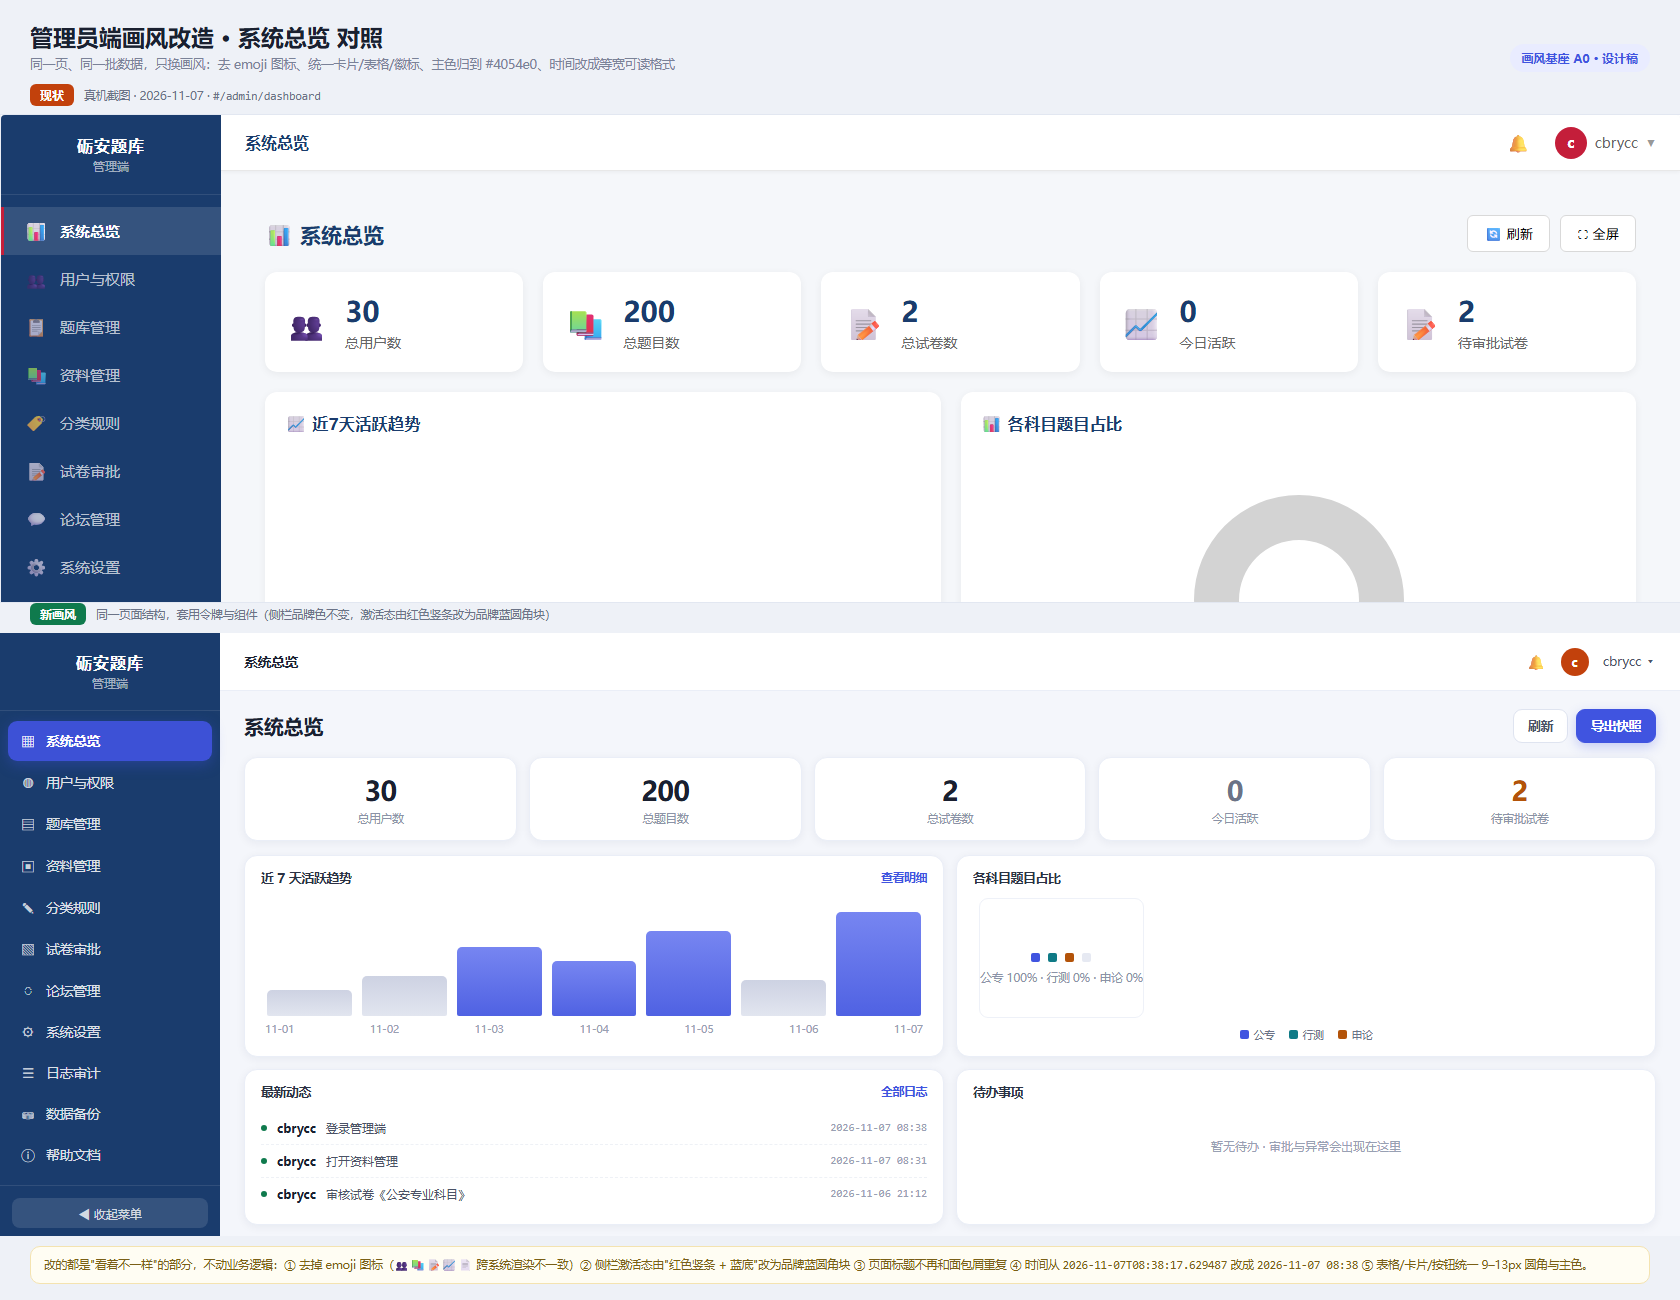
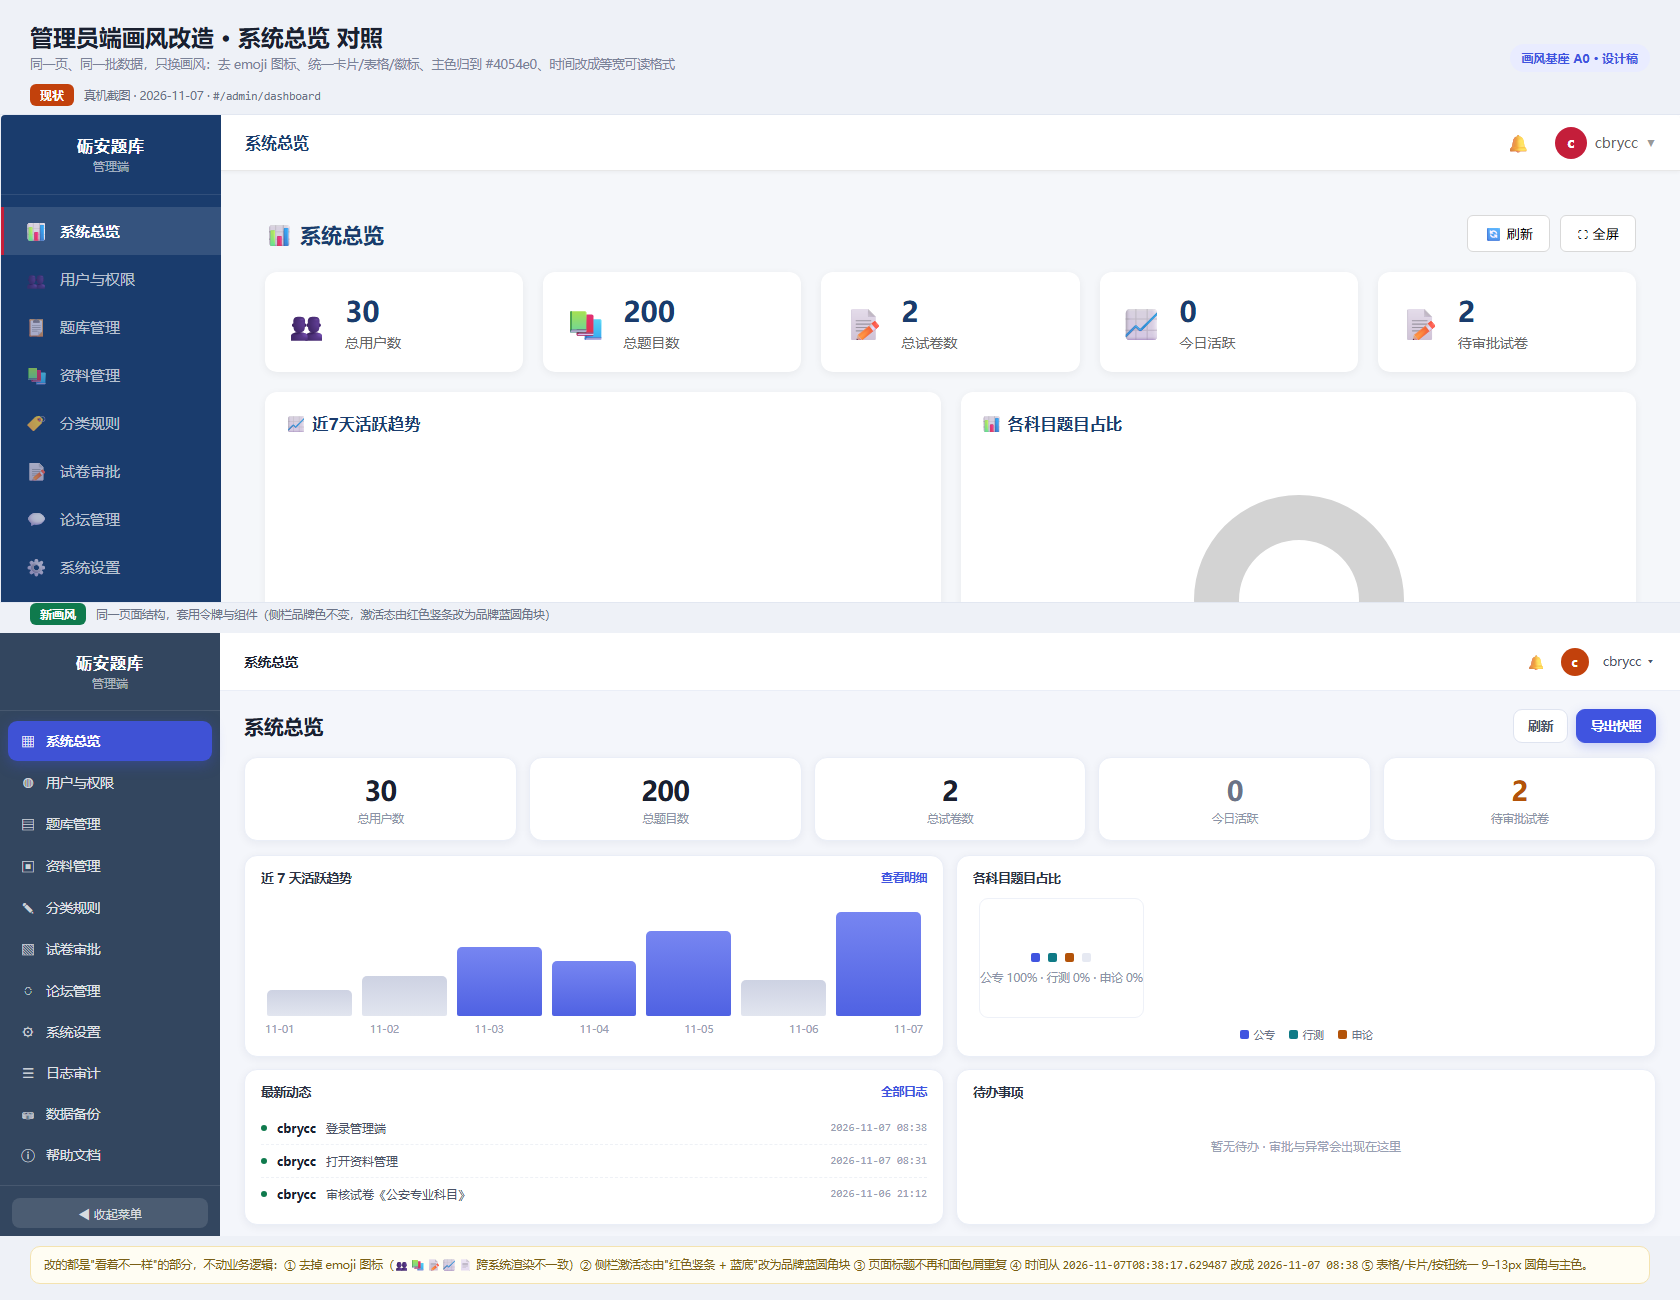
style(admin): 侧栏定色 #33465F（蓝灰）+ 激活态改品牌蓝圆角块（E2 定 D）
E2 复议收口：你反馈 #1A3C6D 过于深沉 → 选定 D 蓝灰 #33465F（白字对比度 9.62，WCAG AA）。
- admin-tokens.css: --adm-sidebar 改 #33465f，新增 --adm-sidebar-active / --adm-sidebar-active-shadow
- AdminLayout.vue: .admin-sidebar 底色改 var(--adm-sidebar)（原写死 #1A3C6D）；激活态由半透明白+红竖条 #C41E3A 改为品牌蓝圆角块（rgba(64,84,224,.92)+9px+阴影）；sidebar-nav 内边距 0→8px
- 真机实测：sidebarBg=rgb(51,70,95)、activeBg=rgba(64,84,224,0.92)、radius=9px、左边框 transparent
- 示意图 02/04 同步换色，新增 05 配色候选图、06 侧栏真机落地图
未做：侧栏滚动冻结（A5 的 fixed+margin-left，sticky 被 VTJ 三层 overflow 破坏）。typecheck 0 新增。不动 main。

Changed region(s): [[0.0, 0.5846, 0.1548, 0.9538], [0.0, 0.4615, 0.1548, 0.5538]]

diff --git a/src/layouts/AdminLayout.vue b/src/layouts/AdminLayout.vue
@@ -244,7 +244,8 @@ export default defineComponent({
 /* 侧边栏 */
 .admin-sidebar {
   width: 220px;
-  background: #1A3C6D;
+  /* 2026-11-07：底色改由令牌控制（原写死 #1A3C6D，偏沉；现 #33465F 蓝灰，白字 9.62:1） */
+  background: var(--adm-sidebar, #33465f);
   color: #fff;
   display: flex;
   flex-direction: column;
@@ -281,16 +282,17 @@ export default defineComponent({
 
 .sidebar-nav {
   flex: 1;
-  padding: 12px 0;
+  padding: 12px 8px;
 }
 
 .sidebar-item {
   display: flex;
   align-items: center;
-  padding: 12px 20px;
+  padding: 11px 14px;
   color: rgba(255,255,255,0.7);
   text-decoration: none;
   font-size: 15px;
+  border-radius: 9px;          /* A5：激活态由"红竖条"改为品牌蓝圆角块 */
   transition: all 0.2s;
   border-left: 3px solid transparent;
 }
@@ -302,9 +304,11 @@ export default defineComponent({
 
 .sidebar-item.active {
   color: #fff;
-  background: rgba(255,255,255,0.12);
-  border-left-color: #C41E3A;
+  /* 2026-11-07 A5：原来的 rgba(255,255,255,.12) + 红色左竖条（#C41E3A）与蓝灰侧栏冲突，改为品牌蓝圆角块 */
+  background: var(--adm-sidebar-active, rgba(64, 84, 224, 0.92));
+  border-left-color: transparent;
   font-weight: 600;
+  box-shadow: var(--adm-sidebar-active-shadow, 0 4px 14px rgba(64, 84, 224, 0.32));
 }
 
 .sidebar-icon {

diff --git a/docs/plans/assets/管理端画风/_src/02_画风对照_系统总览.html b/docs/plans/assets/管理端画风/_src/02_画风对照_系统总览.html
@@ -1,4 +1,4 @@
-<!doctype html><html><head><meta charset="utf-8"><style>
+<!doctype html><html><head><meta charset="utf-8"><style>
 *{box-sizing:border-box;margin:0;padding:0}
 body{font-family:"Microsoft YaHei","Segoe UI",system-ui,sans-serif;background:#eef1f7;color:#1a2030}
 .canvas{width:1680px;height:1300px;display:flex;flex-direction:column}
@@ -13,7 +13,7 @@ body{font-family:"Microsoft YaHei","Segoe UI",system-ui,sans-serif;background:#e
 .shot img{display:block;width:1680px}
 /* ===== 新画风渲染（同样是系统总览，只换画风） ===== */
 .after{height:640px;display:flex;overflow:hidden;background:#f4f6fb}
-.side{width:220px;flex:none;background:#1A3C6D;color:#fff;display:flex;flex-direction:column}
+.side{width:220px;flex:none;background:#33465F;color:#fff;display:flex;flex-direction:column}
 .side .hd2{padding:19px 16px;text-align:center;border-bottom:1px solid rgba(255,255,255,.1)}
 .side .hd2 .t{font-size:16px;font-weight:600;letter-spacing:1px}
 .side .hd2 .s{font-size:12px;color:rgba(255,255,255,.6);margin-top:2px}

diff --git a/docs/plans/assets/管理端画风/_src/04_用户与权限_新画风.html b/docs/plans/assets/管理端画风/_src/04_用户与权限_新画风.html
@@ -2,7 +2,7 @@
 *{box-sizing:border-box;margin:0;padding:0}
 body{font-family:"Microsoft YaHei","Segoe UI",system-ui,sans-serif;background:#f4f6fb;color:#1a2030}
 .app{width:1560px;height:1000px;display:flex;overflow:hidden}
-.side{width:220px;flex:none;background:#1A3C6D;color:#fff;display:flex;flex-direction:column}
+.side{width:220px;flex:none;background:#33465F;color:#fff;display:flex;flex-direction:column}
 .side .hd{padding:19px 16px;text-align:center;border-bottom:1px solid rgba(255,255,255,.1)}
 .side .hd .t{font-size:16px;font-weight:600;letter-spacing:1px}
 .side .hd .s{font-size:12px;color:rgba(255,255,255,.6);margin-top:2px}

diff --git a/src/styles/admin-tokens.css b/src/styles/admin-tokens.css
@@ -17,7 +17,11 @@
   --adm-line: #eaeef7;
   --adm-line-soft: #f0f2f8;
   --adm-head-bg: #f7f8fd;
-  --adm-sidebar: #1a3c6d;
+  /* 侧栏底色：2026-11-07 由 #1a3c6d（藏青，偏沉）改为 #33465f（蓝灰，不偏纯蓝）；
+     白字对比度 9.62:1（WCAG AA 通过）。原件写死在 AdminLayout.vue，A5 已改读本令牌。 */
+  --adm-sidebar: #33465f;
+  --adm-sidebar-active: rgba(64, 84, 224, 0.92);
+  --adm-sidebar-active-shadow: 0 4px 14px rgba(64, 84, 224, 0.32);
 
   /* —— 主色 —— */
   --adm-primary: #4054e0;

diff --git a/docs/README.md b/docs/README.md
@@ -72,6 +72,7 @@
 
 ## 变更记录
 
+- 2026-11-07：**侧栏配色定 D `#33465F` 并落到真机**（E2 复议收口）。`admin-tokens.css` 新增 `--adm-sidebar/--adm-sidebar-active/--adm-sidebar-active-shadow`；`AdminLayout.vue` 的 `.admin-sidebar` 从写死 `#1A3C6D` 改为 `var(--adm-sidebar)`；激活态由「半透明白 + 红色左竖条 `#C41E3A`」改为**品牌蓝圆角块**（`rgba(64,84,224,.92)` + 9px 圆角 + 阴影），`sidebar-nav` 左右内边距 0→8px。实测（无头 Chrome 读计算样式）：`sidebarBg=rgb(51,70,95)`、`activeBg=rgba(64,84,224,0.92)`、`activeRadius=9px`、`activeBorderLeft=transparent`。示意图 02/04 已同步换色，真机截图存 `assets/管理端画风/06_侧栏新配色_真机落地.png`。**注意**：只改了颜色与激活态，**侧栏「滚动时不动」仍未修**（A5 的 `fixed + margin-left`，因 sticky 被 VTJ 三层 overflow 容器破坏）
 - 2026-11-07：**侧栏配色复议（E2 重开）**。你反馈「侧栏颜色过于深沉」→ 出 `assets/管理端画风/05_侧栏配色_六选一.png`：现状 `#1A3C6D`（白字对比度 10.99）+ 5 个候选——A 中蓝 `#24487D`（9.14）/ **B 亮蓝 `#2B5AA0`（6.83，推荐；激活块翻白底更像"选中"）** / C 天蓝 `#3A6BB5`（5.32）/ D 蓝灰 `#33465F`（9.62，不偏纯蓝）/ F 浅色整条 `#FFFFFF`（深字 12.79，最轻）。全部按 WCAG 算过对比度（AA ≥4.5 均满足）。**待你选定**后改 `--adm-sidebar` + `AdminLayout.vue` 里写死的底色（A5 一并换 `var()`）
 - 2026-11-07：**画风底座确定后的「各界面预期效果图」出图**（`plans/assets/管理端画风/03_全站12页总览.png`、`04_用户与权限_新画风.png`；配套 `01_令牌与组件`、`02_画风对照`）。12 个管理页**结构全部取自源码实测**（表头列名/页签/按钮文案原样），只换画风：统一后每页只剩三件套 `AdminPageHeader` + `AdminToolbar`/`AdminStatCard` 行 + `AdminTable`；emoji 保留（E3=C）但尺寸对齐由组件统一。逐页对照表已写入 `plans/管理端画风统一_方案_v1.md` §8（页面/现网问题/新画风要点/对应图 四列）；**E2 验收口径明确为「只换皮不换功能」**——列、页签、批量操作、权限判定一个都不减（最重的 users 页 1214 行、8 列 + 4 页签 + 批量条已出全尺寸图）。备注：资料管理页的预期效果早已有图（`assets/资料管理v3/01,05,06`），本批不再重画
 - 2026-11-07：**A0 画风基座已落地**（`plans/A0_画风基座_交付记录_v1.md`；裁定 E1=A/E2=A/**E3=C 保留 emoji**/E4=B/E5=A 已回填进 `plans/管理端画风统一_方案_v1.md` §7.1）。新增 `src/styles/admin-tokens.css`（12 色 + 圆角/阴影/字号/间距 + `.adm-btn/.adm-input/.adm-empty/.adm-card` 工具类，**用纯 CSS 变量而非 scss**——仓库未直接依赖 sass）、`src/components/admin/` 6 个组件（Tag/StatCard/PageHeader/Toolbar/Table/FormItem，全部只读 `var(--adm-*)`）、组件库预览页 `/admin/dev/style`；顺手修：面包屑回落到 `route.meta.title`（原先无菜单项的页面只显示"管理端"）、统计卡空值显示 `—` 而非 0。**门禁数字变更**：新增 1 条页面路由 → L6/L7 页面计数 **104 → 105**（两处已同步并写明原因，可回滚）。验证：vitest **20 passed**、`verify-modularization-constraints` 通过（105 处 import 均存在）、`pytest test_route_roles` 5 passed、typecheck 0 新增；真机实测 `--adm-primary=#4054e0`、tone=warn 数值色 `rgb(179,83,9)`；截图 `assets/管理端画风/A0/`。自查出 3 个缺陷并修（模板未定义变量静默失败 / `withDefaults` 把 undefined 变 0 / 面包屑兜底错）
